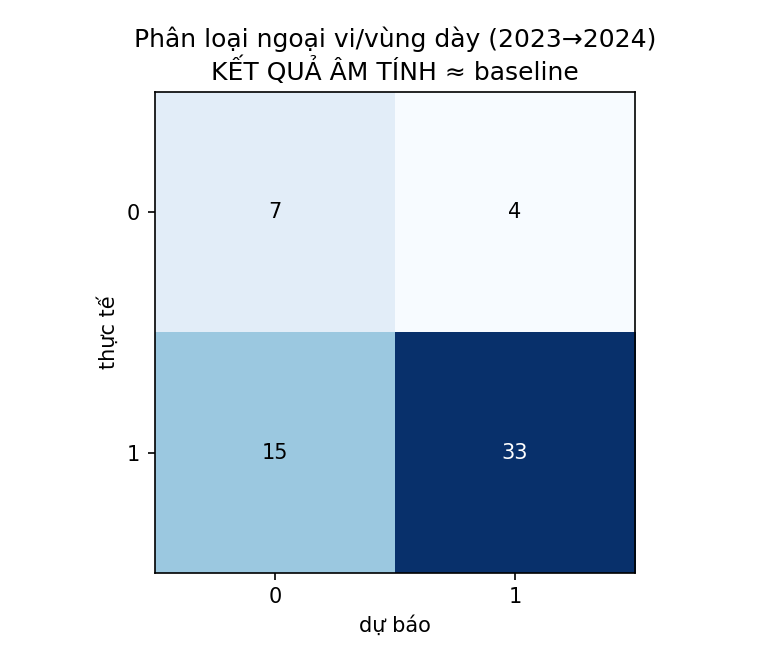
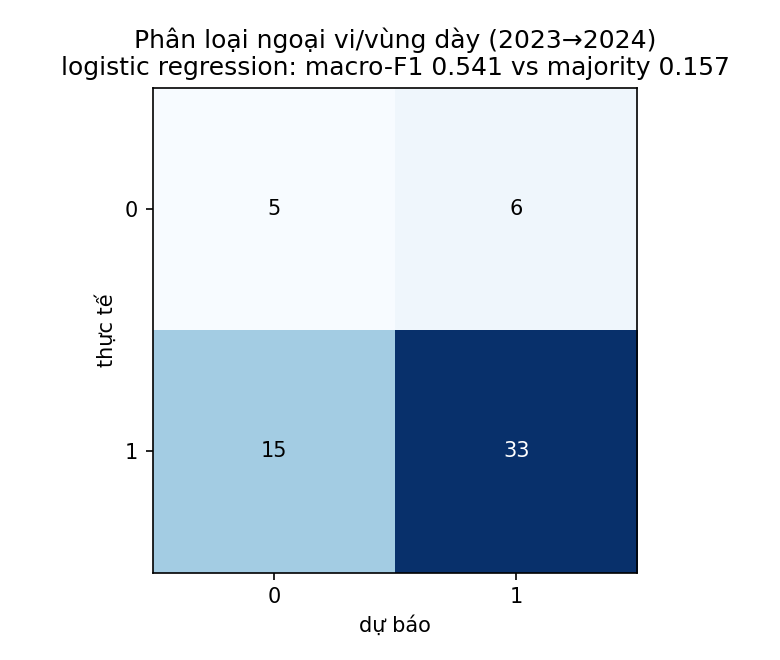
fix(predict): plot cv-selected classifier in confusion figure

diff --git a/scripts/predict_supervised.py b/scripts/predict_supervised.py
@@ -17,7 +17,7 @@ Hai bài toán minh hoạ (khác với `predict_demo.py` — STING.predict khôn
   models/sup_ridge.joblib, models/sup_rf.joblib           — model local (joblib)
   results/supervised_metrics.csv, results/supervised_summary.md
   results/figs/supervised_regression.png                  — dự báo vs thực tế + độ quan trọng
-  results/figs/supervised_confusion.png                   — confusion (bài toán 2, âm tính)
+  results/figs/supervised_confusion.png                   — confusion (bài toán 2, model chọn bằng CV)
 
 Chạy: python scripts/predict_supervised.py
 """
@@ -338,13 +338,30 @@ def main() -> int:
     plt.close(fig)
 
     # ================================================================== #
-    # Hình (b): confusion của bài toán phân loại (âm tính)
+    # Hình (b): confusion của bài toán phân loại (model chọn bằng CV)
     # ================================================================== #
+    _clf_rows = met[met.task == "classification"]
+    _clf = _clf_rows.set_index("model")
+    _clf_models = _clf_rows[_clf_rows.model != "majority (lớp đa số)"]
+    _selected_clf_name = select_model_by_cv(_clf_models)
+    _selected_clf = _clf.loc[_selected_clf_name]
+    _majority_clf = _clf.loc["majority (lớp đa số)"]
+    _clf_grids = {
+        "logistic regression": grid_lr,
+        "random forest": grid_rfc,
+    }
+    _selected_clf_grid = _clf_grids[_selected_clf_name]
     classes = sorted(set(yc_tr.tolist()) | set(yc_te.tolist()))
     fig, ax = plt.subplots(figsize=(5.2, 4.4))
-    cm = confusion_matrix(yc_te, grid_rfc.best_estimator_.predict(Xc_te), labels=classes)
+    cm = confusion_matrix(
+        yc_te, _selected_clf_grid.best_estimator_.predict(Xc_te), labels=classes
+    )
     ax.imshow(cm, cmap="Blues")
-    ax.set_title("Phân loại ngoại vi/vùng dày (2023→2024)\nKẾT QUẢ ÂM TÍNH ≈ baseline")
+    ax.set_title(
+        "Phân loại ngoại vi/vùng dày (2023→2024)\n"
+        f"{_selected_clf_name}: macro-F1 {_selected_clf['holdout_macro_f1']:.3f}"
+        f" vs majority {_majority_clf['holdout_macro_f1']:.3f}"
+    )
     ax.set_xlabel("dự báo")
     ax.set_ylabel("thực tế")
     ax.set_xticks(range(len(classes)), [str(c) for c in classes])
@@ -381,12 +398,6 @@ def main() -> int:
     _selected_reg_name = select_model_by_cv(_reg_models)
     _selected_reg = _reg.loc[_selected_reg_name]
     _impr = (1 - _selected_reg["holdout_mae"] / _carry["holdout_mae"]) * 100
-    _clf_rows = met[met.task == "classification"]
-    _clf = _clf_rows.set_index("model")
-    _clf_models = _clf_rows[_clf_rows.model != "majority (lớp đa số)"]
-    _selected_clf_name = select_model_by_cv(_clf_models)
-    _selected_clf = _clf.loc[_selected_clf_name]
-    _majority_clf = _clf.loc["majority (lớp đa số)"]
     _acc_delta = (_selected_clf["holdout_acc"] - _majority_clf["holdout_acc"]) * 100
     _f1_delta = (_selected_clf["holdout_macro_f1"] - _majority_clf["holdout_macro_f1"]) * 100
     lines.append(
